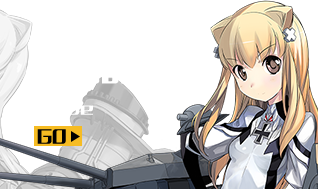
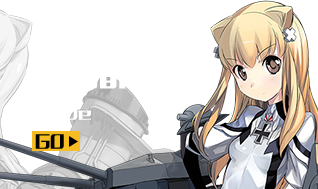
'fixstyle'

Changed region(s): [[0.0849, 0.6614, 0.283, 0.8201], [0.283, 0.3968, 0.3962, 0.4762], [0.2264, 0.5556, 0.3113, 0.6349]]

diff --git a/css/zhanji.css b/css/zhanji.css
@@ -265,11 +265,17 @@ ul.news_list_content li:first-child i{
 	display: block;
 	width: 100%;
 	height: 100%;
+	overflow: hidden;
+}
+.third ul li:first-child a img{
+	margin-top: -19px;
+}
+.third ul li:last-child a img{
+	margin-top: -8px;
 }
 .third ul li a img{
 	display: block;
-	width: 100%;
-	height: 100%;
+	margin-top: -10px;
 }
 /*fourth*/
 .fourth {
@@ -403,4 +409,5 @@ ul.news_list_content li:first-child i{
 	bottom: 0;
 	left: 50%;
 	margin-left: -42px;
+	cursor: pointer;
 }
